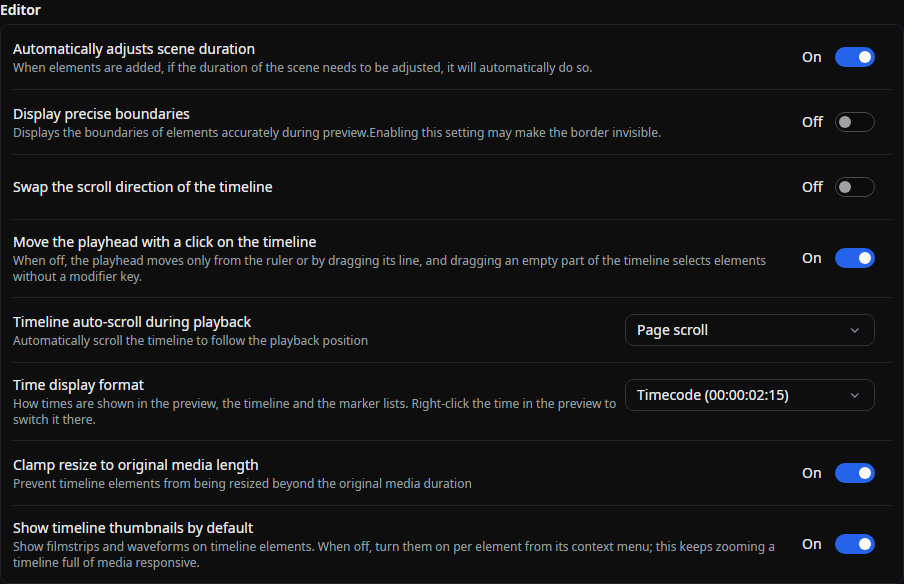
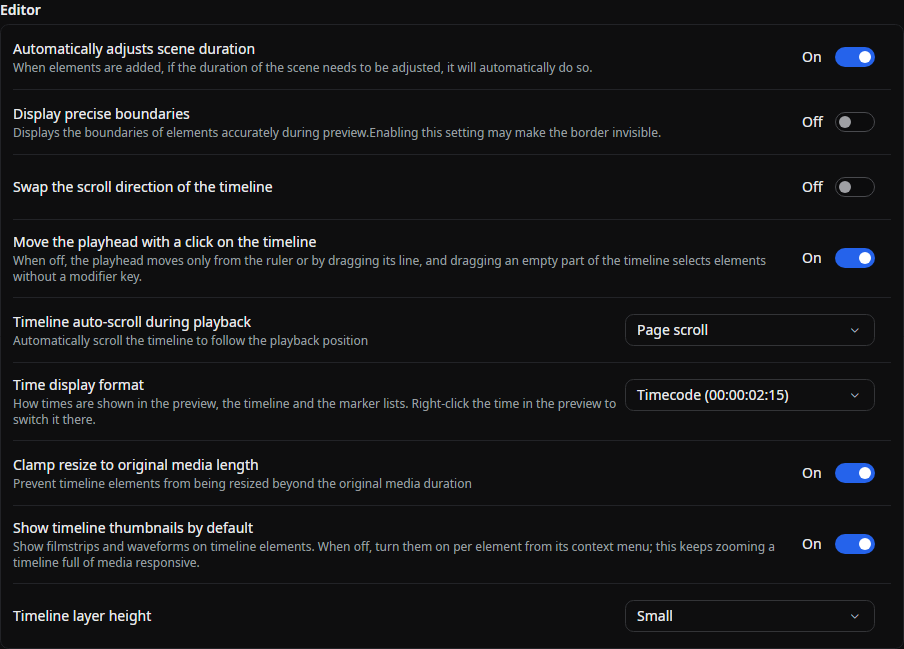
docs: regenerate screenshots from Beutl 2.0.0-preview.16 (#45)
* fix: port the screenshot tool to Beutl 2.0.0-preview.16

* fix: fit the grown editor settings group in its screenshot window

* docs: regenerate screenshots from Beutl 2.0.0-preview.16

diff --git a/tools/screenshots/Scenarios.cs b/tools/screenshots/Scenarios.cs
@@ -76,12 +76,11 @@ internal static class Scenarios
                 // instead of overwriting the sample state below whenever the probe returns.
                 await (Task)DesktopInternals.Method(versionControl.GetType(), "GetAvailabilityAsync")
                     .Invoke(versionControl, [CancellationToken.None])!;
+                // Opened at a sample path, which is only displayed; screenshots never create a project there.
                 var model = DesktopInternals.Create<CreateNewProjectViewModel>(
                     DesktopInternals.Property<ProjectService>(main, "ProjectService"), versionControl,
-                    ScreenshotApp.Instance.Configuration);
+                    ScreenshotApp.Instance.Configuration, "/home/user/Projects");
                 model.Name.Value = "MyProject";
-                // Display a sample path only; screenshots never create a project there.
-                model.Location.Value = "/home/user/Projects";
                 model.IsGitAvailable.Value = true;
                 model.TrackHistory.Value = true;
                 var dialog = new CreateNewProject { DataContext = model, UseLayoutRounding = true };
@@ -155,7 +154,7 @@ internal static class Scenarios
             {
                 using var model = new EditorSettingsPageViewModel(ScreenshotApp.Instance.Configuration);
                 var view = new EditorSettingsPage { DataContext = model };
-                using var host = new CaptureHost(view, 960, 720);
+                using var host = new CaptureHost(view, 960, 800);
                 string header = id switch
                 {
                     "frame-cache" => Strings.FrameCache,

diff --git a/tools/screenshots/ScreenshotApp.cs b/tools/screenshots/ScreenshotApp.cs
@@ -41,7 +41,8 @@ public sealed class ScreenshotApp : Application
 
         Decoders = new DecoderRegistry(Configuration.ExtensionConfig);
         Fonts = new Beutl.Media.FontManager(Configuration.FontConfig);
-        Templates = new ObjectTemplateService(Fonts, Configuration.EditorConfig, Configuration.ProxyStoreConfig, Decoders);
+        Templates = new ObjectTemplateService(new SceneRenderServices(Fonts, Decoders, Configuration.EditorConfig,
+            Configuration.ProxyStoreConfig));
         _thumbnails = new FileThumbnailService(Decoders, Templates);
         object updates = DesktopInternals.Create(DesktopInternals.Type("Beutl.Services.AppUpdateController"),
             Configuration.UpdateConfig, Notifications);
